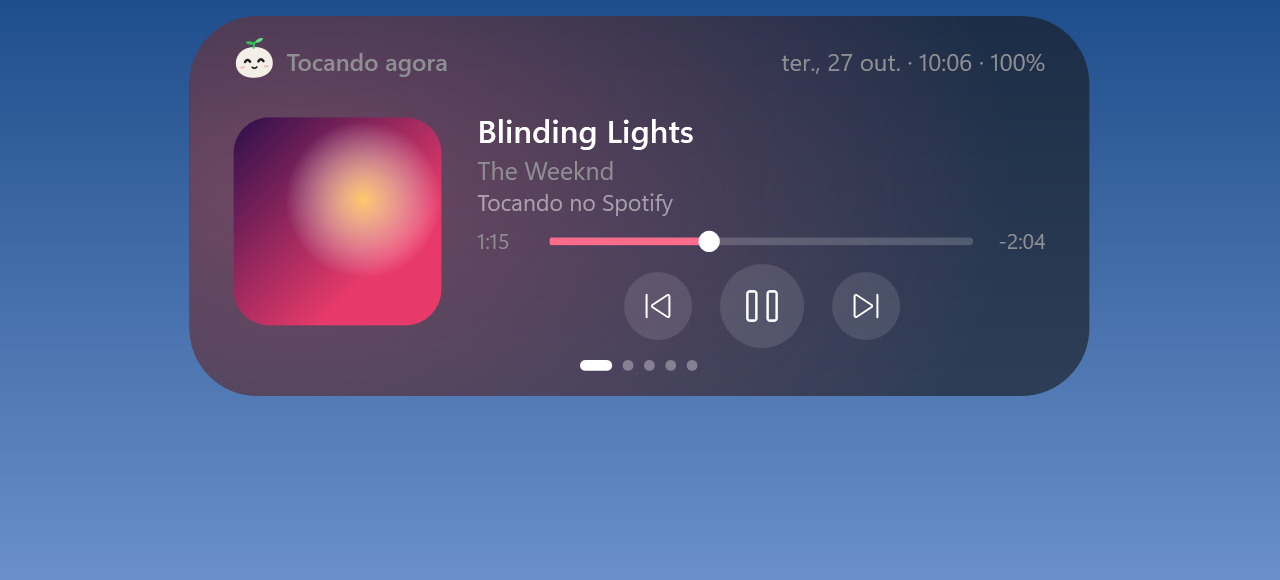
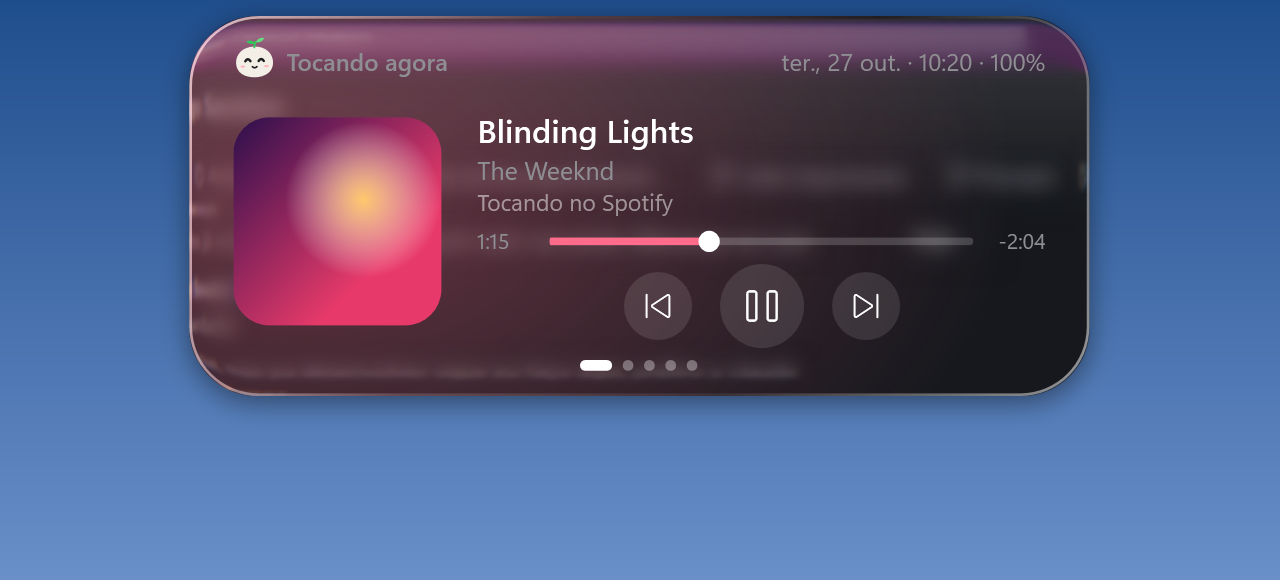
Vidro vira liquid glass: fundo fosco no meio, refração nas bordas com franja de cor, brilho na borda e sombra

diff --git a/IslandWindow.xaml b/IslandWindow.xaml
@@ -212,6 +212,24 @@
                     </Border.Effect>
                 </Border>
 
+                <!-- Liquid glass rim: a bright edge catching light from the top-left, a softer one bottom-right -->
+                <Border x:Name="GlassRim" Visibility="Collapsed" BorderThickness="1.2" IsHitTestVisible="False">
+                    <Border.BorderBrush>
+                        <LinearGradientBrush StartPoint="0,0" EndPoint="1,1">
+                            <GradientStop Color="#D9FFFFFF" Offset="0" />
+                            <GradientStop Color="#2EFFFFFF" Offset="0.35" />
+                            <GradientStop Color="#14FFFFFF" Offset="0.65" />
+                            <GradientStop Color="#8CFFFFFF" Offset="1" />
+                        </LinearGradientBrush>
+                    </Border.BorderBrush>
+                    <Border.Background>
+                        <LinearGradientBrush StartPoint="0,0" EndPoint="0,1">
+                            <GradientStop Color="#24FFFFFF" Offset="0" />
+                            <GradientStop Color="#00FFFFFF" Offset="0.5" />
+                        </LinearGradientBrush>
+                    </Border.Background>
+                </Border>
+
                 <Grid x:Name="IslandContent">
 
                     <!-- Activity hint inside the slim idle handle -->

diff --git a/LiquidGlass.cs b/LiquidGlass.cs
@@ -1,0 +1,131 @@
+using System.Windows;
+using System.Windows.Media;
+using System.Windows.Media.Imaging;
+
+namespace DynamicIsland;
+
+/// <summary>
+/// "Liquid glass": what is behind the island, lightly blurred, bent like a lens along the rim (content from
+/// just outside the edge is pulled in, with a touch of colour fringing) and slightly more vivid.
+/// Computed on the CPU at half resolution from a screen capture.
+/// </summary>
+static class LiquidGlass
+{
+    const int Scale = 2;
+
+    /// <param name="x">Island bounds on screen, physical pixels.</param>
+    /// <param name="radius">Corner radius in physical pixels.</param>
+    /// <param name="flatTop">The top edge touches the screen edge (notch), so it doesn't refract.</param>
+    public static BitmapSource? Render(int x, int y, int width, int height, double radius, bool flatTop, double dpiScale)
+    {
+        int ow = width / Scale, oh = height / Scale;
+        if (ow < 4 || oh < 4) return null;
+
+        // The refraction samples a little outside the glass, so capture a margin around it.
+        var band = (float)Math.Min(Math.Min(ow, oh) * 0.42, 15 * dpiScale / Scale);
+        var reach = band * 1.15f;
+        var pad = (int)Math.Ceiling(reach + 3);
+        if (Native.CapturePixels(x - pad * Scale, y - pad * Scale, (ow + 2 * pad) * Scale, (oh + 2 * pad) * Scale, Scale) is not { } shot)
+            return null;
+        var (src, sw, sh) = shot;
+        // The rim shows the background sharp and bent; the middle is frosted so the island's text stays readable.
+        var frost = (int[])src.Clone();
+        BoxBlur(src, sw, sh, 1);
+        BoxBlur(src, sw, sh, 1);
+        for (var i = 0; i < 3; i++) BoxBlur(frost, sw, sh, 3);
+
+        var output = new int[ow * oh];
+        float hx = ow / 2f, hy = oh / 2f;
+        var r = (float)Math.Min(radius / Scale, Math.Min(hx, hy));
+        for (var py = 0; py < oh; py++)
+        {
+            for (var px = 0; px < ow; px++)
+            {
+                float cx = px + 0.5f - hx, cy = py + 0.5f - hy;
+                float ax = MathF.Abs(cx), ay = MathF.Abs(cy);
+                float qx = ax - (hx - r), qy = ay - (hy - r);
+                if (flatTop && cy < 0) qy = -1e6f;
+
+                // Signed distance to the rounded rectangle (negative inside) and the outward normal.
+                float ox = MathF.Max(qx, 0), oy = MathF.Max(qy, 0);
+                var depth = r - MathF.Sqrt(ox * ox + oy * oy) - MathF.Min(MathF.Max(qx, qy), 0);
+                float nx, ny;
+                if (qx > 0 && qy > 0)
+                {
+                    var len = MathF.Sqrt(qx * qx + qy * qy);
+                    (nx, ny) = (qx / len, qy / len);
+                }
+                else if (qx > qy) (nx, ny) = (1, 0);
+                else (nx, ny) = (0, 1);
+                nx *= MathF.Sign(cx);
+                ny *= MathF.Sign(cy);
+
+                var t = depth < band ? 1 - MathF.Max(depth, 0) / band : 0;
+                var bend = reach * t * t;
+                // 1 at the rim, 0 a band and a half inside it
+                var rim = Math.Clamp(1 - MathF.Max(depth, 0) / (band * 1.5f), 0, 1);
+                rim *= rim;
+                float sx = px + pad, sy = py + pad;
+                float Channel(float k, int shift) =>
+                    Sample(frost, sw, sh, sx + nx * bend * k, sy + ny * bend * k, shift) * (1 - rim)
+                    + Sample(src, sw, sh, sx + nx * bend * k, sy + ny * bend * k, shift) * rim;
+                output[py * ow + px] = Vivid(Channel(1.12f, 16), Channel(1f, 8), Channel(0.88f, 0));
+            }
+        }
+
+        var bitmap = BitmapSource.Create(ow, oh, 96, 96, PixelFormats.Bgra32, null, output, ow * 4);
+        bitmap.Freeze();
+        return bitmap;
+    }
+
+    static float Sample(int[] src, int w, int h, float x, float y, int shift)
+    {
+        x = Math.Clamp(x - 0.5f, 0, w - 1.001f);
+        y = Math.Clamp(y - 0.5f, 0, h - 1.001f);
+        int x0 = (int)x, y0 = (int)y;
+        float fx = x - x0, fy = y - y0;
+        float C(int ix, int iy) => (src[iy * w + ix] >> shift) & 0xFF;
+        var top = C(x0, y0) + (C(x0 + 1, y0) - C(x0, y0)) * fx;
+        var bottom = C(x0, y0 + 1) + (C(x0 + 1, y0 + 1) - C(x0, y0 + 1)) * fx;
+        return top + (bottom - top) * fy;
+    }
+
+    // A little more saturation and light, as glass seems to gather it.
+    static int Vivid(float r, float g, float b)
+    {
+        var luma = 0.299f * r + 0.587f * g + 0.114f * b;
+        static int Clamp(float v) => (int)Math.Clamp(v, 0, 255);
+        int R = Clamp((luma + (r - luma) * 1.25f) * 1.05f), G = Clamp((luma + (g - luma) * 1.25f) * 1.05f), B = Clamp((luma + (b - luma) * 1.25f) * 1.05f);
+        return unchecked((int)0xFF000000) | (R << 16) | (G << 8) | B;
+    }
+
+    /// <summary>Box blur of the given radius in place; repeated passes approach a Gaussian.</summary>
+    static void BoxBlur(int[] px, int w, int h, int radius)
+    {
+        var tmp = new int[px.Length];
+        Pass(px, tmp, w, h, 1, w, radius);
+        Pass(tmp, px, w, h, w, h, radius);
+
+        static void Pass(int[] from, int[] to, int w, int h, int step, int length, int radius)
+        {
+            var lines = step == 1 ? h : w;
+            var taps = radius * 2 + 1;
+            for (var line = 0; line < lines; line++)
+            {
+                var start = step == 1 ? line * w : line;
+                for (var i = 0; i < length; i++)
+                {
+                    int R = 0, G = 0, B = 0;
+                    for (var k = -radius; k <= radius; k++)
+                    {
+                        var c = from[start + Math.Clamp(i + k, 0, length - 1) * step];
+                        R += (c >> 16) & 0xFF;
+                        G += (c >> 8) & 0xFF;
+                        B += c & 0xFF;
+                    }
+                    to[start + i * step] = (R / taps << 16) | (G / taps << 8) | B / taps;
+                }
+            }
+        }
+    }
+}

diff --git a/IslandWindow.Pet.cs b/IslandWindow.Pet.cs
@@ -11,6 +11,7 @@ public partial class IslandWindow
     DateTime _lastActivity = DateTime.Now, _lastGlass;
     Effect? _shadow;
     System.Windows.Threading.DispatcherTimer? _glassTimer;
+    bool _glassBusy;
 
     PetView[] Pets => [CompactPet, HeaderPet, AlertPet, AgentPet];
     bool PetOn => _settings.Mascot != PetSpecies.None;
@@ -23,8 +24,9 @@ public partial class IslandWindow
         ground.Freeze();
         IslandBg.Background = ground;
         EarLeft.Fill = EarRight.Fill = ground;
-        // A shadow under a see-through island would only darken the glass.
+        // The glass carries the shadow: the tint above it is see-through and would only darken it.
         IslandBg.Effect = Glass ? null : _shadow;
+        GlassFill.Effect = Glass ? _shadow : null;
         ApplyGlass();
 
         var pet = PetOn;
@@ -40,39 +42,48 @@ public partial class IslandWindow
         UpdatePet();
     }
 
-    // DWM's own blur only covers whole window rectangles, so the glass is made here: a heavily downscaled
-    // copy of the screen behind the island, stretched back (box blur). The island is excluded from screen
-    // capture while glass is on, otherwise it would capture itself.
+    // DWM's own blur only covers whole window rectangles, so the glass is made here from a capture of the
+    // screen behind the island (see LiquidGlass). The island is excluded from screen capture while glass
+    // is on, otherwise it would capture itself.
     void ApplyGlass()
     {
         if (_hwnd != IntPtr.Zero) Native.SetWindowDisplayAffinity(_hwnd, Glass ? Native.WDA_EXCLUDEFROMCAPTURE : 0);
-        GlassFill.Visibility = Vis(Glass);
+        GlassFill.Visibility = GlassRim.Visibility = Vis(Glass);
         if (!Glass)
         {
             _glassTimer?.Stop();
             GlassFill.Background = null;
             return;
         }
-        _glassTimer ??= MakeTimer(0.25, () => CaptureGlass(true));
+        _glassTimer ??= MakeTimer(0.2, () => CaptureGlass(true));
         _glassTimer.Start();
         CaptureGlass(true);
     }
 
-    void CaptureGlass(bool force = false)
+    async void CaptureGlass(bool force = false)
     {
-        if (!Glass || _hiddenFullscreen || PresentationSource.FromVisual(Island) == null) return;
+        if (!Glass || _glassBusy || _hiddenFullscreen || PresentationSource.FromVisual(Island) == null) return;
         var now = DateTime.Now;
-        if (!force && now - _lastGlass < TimeSpan.FromMilliseconds(60)) return;
+        if (!force && now - _lastGlass < TimeSpan.FromMilliseconds(50)) return;
         _lastGlass = now;
         var dpi = VisualTreeHelper.GetDpi(this);
         var origin = Island.PointToScreen(new Point(0, 0));
-        var shot = Native.CaptureScaled((int)Math.Round(origin.X), (int)Math.Round(origin.Y),
-            (int)Math.Round(Island.Width * dpi.DpiScaleX), (int)Math.Round(Island.Height * dpi.DpiScaleY), 14);
-        if (shot == null) return;
-        var brush = new ImageBrush(shot) { Stretch = Stretch.Fill };
-        RenderOptions.SetBitmapScalingMode(brush, BitmapScalingMode.Linear);
-        brush.Freeze();
-        GlassFill.Background = brush;
+        int x = (int)Math.Round(origin.X), y = (int)Math.Round(origin.Y);
+        int w = (int)Math.Round(Island.Width * dpi.DpiScaleX), h = (int)Math.Round(Island.Height * dpi.DpiScaleY);
+        var radius = IslandBg.CornerRadius.BottomLeft * dpi.DpiScaleX;
+        var flatTop = IslandBg.CornerRadius.TopLeft < IslandBg.CornerRadius.BottomLeft;
+
+        _glassBusy = true;
+        try
+        {
+            var shot = await Task.Run(() => LiquidGlass.Render(x, y, w, h, radius, flatTop, dpi.DpiScaleX));
+            if (shot == null || !Glass) return;
+            var brush = new ImageBrush(shot) { Stretch = Stretch.Fill };
+            RenderOptions.SetBitmapScalingMode(brush, BitmapScalingMode.Linear);
+            brush.Freeze();
+            GlassFill.Background = brush;
+        }
+        finally { _glassBusy = false; }
     }
 
     double PetExtraWidth(CompactKind kind) => PetOn && kind is CompactKind.Clock or CompactKind.Timer ? 24 : 0;

diff --git a/Native.cs b/Native.cs
@@ -61,8 +61,8 @@ static class Native
     [DllImport("gdi32.dll")] static extern int SetStretchBltMode(IntPtr dc, int mode);
     [DllImport("gdi32.dll")] static extern bool StretchBlt(IntPtr dest, int dx, int dy, int dw, int dh, IntPtr src, int sx, int sy, int sw, int sh, int op);
 
-    /// <summary>The screen area given in physical pixels, shrunk by <paramref name="factor"/> (averaged).</summary>
-    public static BitmapSource? CaptureScaled(int x, int y, int width, int height, int factor)
+    /// <summary>The screen area given in physical pixels, shrunk by <paramref name="factor"/> (averaged), as 0xRRGGBB ints.</summary>
+    public static (int[] Pixels, int Width, int Height)? CapturePixels(int x, int y, int width, int height, int factor)
     {
         if (width < 4 || height < 4) return null;
         int w = Math.Max(2, width / factor), h = Math.Max(2, height / factor);
@@ -75,9 +75,12 @@ static class Native
             SetStretchBltMode(memory, 4); // HALFTONE averages the source pixels
             if (!StretchBlt(memory, 0, 0, w, h, screen, x, y, width, height, 0x40CC0020)) return null; // SRCCOPY | CAPTUREBLT
             SelectObject(memory, old);
-            var source = Imaging.CreateBitmapSourceFromHBitmap(bitmap, IntPtr.Zero, Int32Rect.Empty, BitmapSizeOptions.FromEmptyOptions());
-            source.Freeze();
-            return source;
+            var source = new FormatConvertedBitmap(
+                Imaging.CreateBitmapSourceFromHBitmap(bitmap, IntPtr.Zero, Int32Rect.Empty, BitmapSizeOptions.FromEmptyOptions()),
+                PixelFormats.Bgr32, null, 0);
+            var pixels = new int[w * h];
+            source.CopyPixels(pixels, w * 4, 0);
+            return (pixels, w, h);
         }
         catch { return null; }
         finally

diff --git a/IslandSettings.cs b/IslandSettings.cs
@@ -65,7 +65,7 @@ public static class IslandThemes
     // Glass is a translucent tint over a real blur of what is behind the island.
     public static readonly (string Name, Color Color)[] All =
     [
-        (Glass, Color.FromArgb(0x9E, 0x18, 0x18, 0x1C)),
+        (Glass, Color.FromArgb(0x66, 0x10, 0x10, 0x14)),
         ("Obsidiana", Color.FromRgb(0x00, 0x00, 0x00)),
         ("Grafite", Color.FromRgb(0x1C, 0x1C, 0x1E)),
         ("Ardósia", Color.FromRgb(0x1E, 0x25, 0x33)),

diff --git a/IslandWindow.xaml.cs b/IslandWindow.xaml.cs
@@ -319,7 +319,7 @@ public partial class IslandWindow : Window
         IslandContent.Clip = flatTop
             ? new RectangleGeometry(new Rect(0, -r, w, h + r), r, r)
             : new RectangleGeometry(new Rect(0, 0, w, h), r, r);
-        GlassFill.CornerRadius = IslandBg.CornerRadius;
+        GlassFill.CornerRadius = GlassRim.CornerRadius = IslandBg.CornerRadius;
         if (Glass) CaptureGlass();
     }
 

diff --git a/README.md b/README.md
@@ -27,7 +27,7 @@ atrapalhar: os cliques passam por ela.
 |---|---|
 | **Mascotes** — o **Coco** (o mascote da ilha: um coquinho com brotinho), a **Pipoca** (gatinha) ou o **Bu** (fantasminha). Seguem o mouse com os olhos, dançam com a música, ficam azuis enquanto o agente trabalha, laranja e pulando quando ele precisa de você, comemoram quando termina e dormem quando nada acontece. Clique: ficam bravos; três vezes rápido, ficam tontos. | <img src="docs/img/25-mascot-coco.png" width="190"> <img src="docs/img/24-dizzy-card.png" width="190"> |
 | **Agentes ao vivo** — o mascote do agente, os passos (Leitura, Edição, Terminal…) e o diff da última edição; com vários agentes, a lista de todos com o mascote de cada um. | <img src="docs/img/10b-agent-detail.png" width="380"> |
-| **Vidro (desfocado)** — tema translúcido estilo iPhone que desfoca o que está atrás da ilha, além de 8 cores sólidas (Obsidiana, Grafite, Ardósia, Oceano, Floresta, Café, Ameixa, Cereja). | <img src="docs/img/26-glass-media.png" width="380"> |
+| **Vidro (desfocado)** — "liquid glass" estilo iOS 26: o fundo atrás da ilha é fosco no meio e se curva como uma lente nas bordas, com brilho na borda, além de 8 cores sólidas (Obsidiana, Grafite, Ardósia, Oceano, Floresta, Café, Ameixa, Cereja). | <img src="docs/img/26-glass-media.png" width="380"> |
 | **Mídia** — capa, título, progresso e controles de qualquer player (Spotify, YouTube…). A cor de destaque vem da capa. | <img src="docs/img/02-now-playing.png" width="380"> |
 | **Volume** — barra ao mudar o volume (role o mouse sobre ela para ajustar). | <img src="docs/img/04-volume.png" width="380"> |
 | **Agentes de IA** — azul trabalhando, laranja precisa de você, verde concluído. | <img src="docs/img/09-agent-alert.png" width="380"> |
